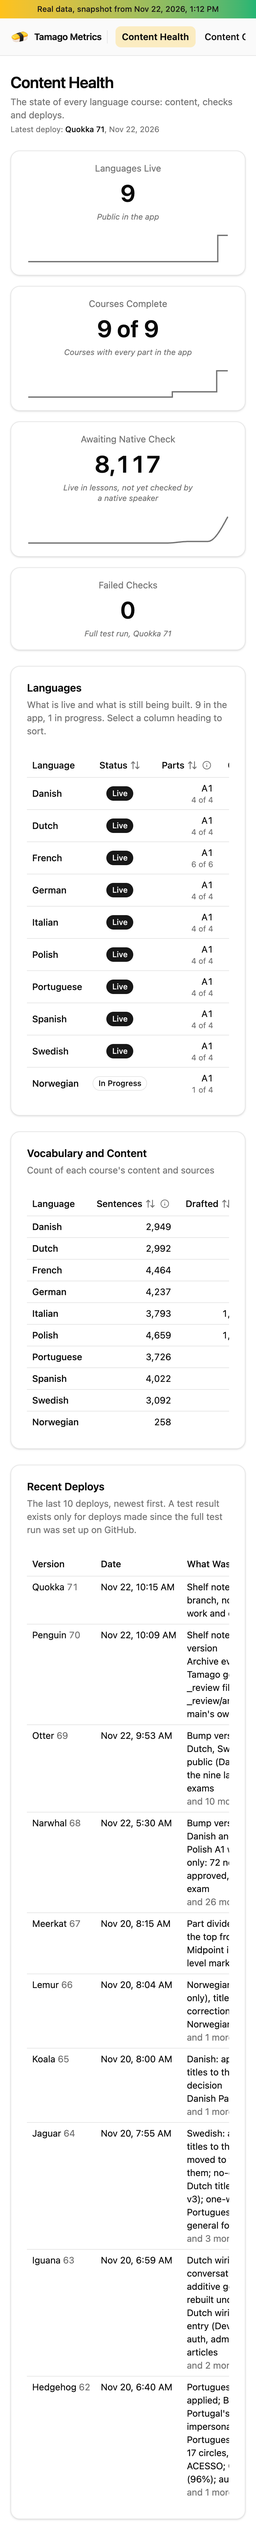
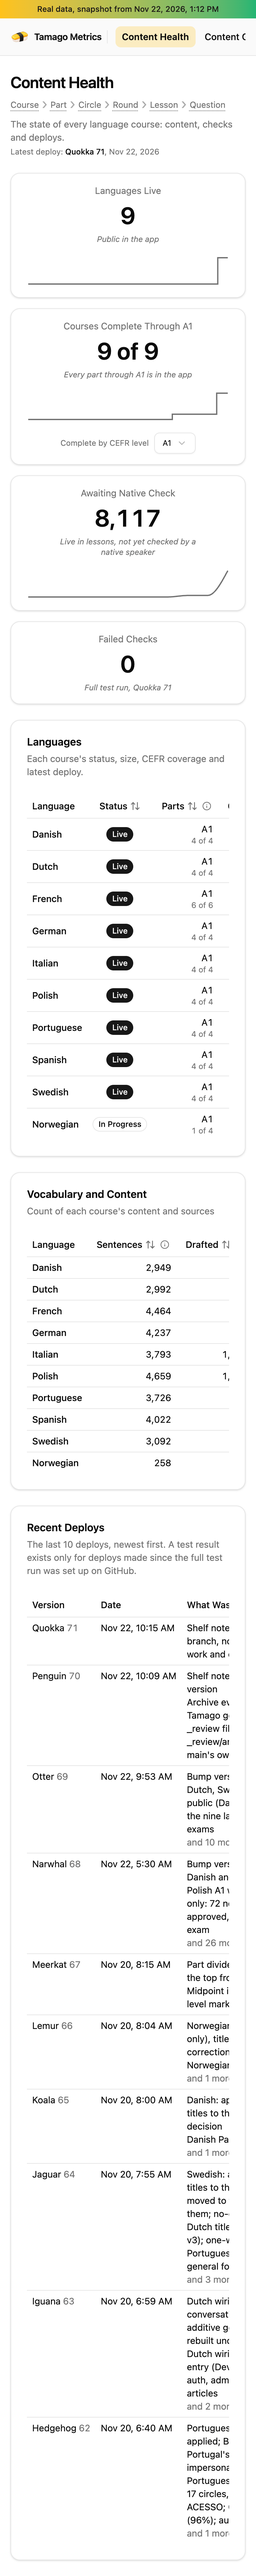
Content Health: Courses Complete Through A1 with a CEFR level menu (A1, A2), wider card text, hierarchy legend, plain Languages description; dashboard dev server on its own port 5180

diff --git a/src/charts/StatTiles.tsx b/src/charts/StatTiles.tsx
@@ -1,4 +1,7 @@
-import { Card, CardContent, CardDescription, CardHeader, CardTitle } from '@/components/ui/card'
+import { useState } from 'react'
+
+import { Card, CardContent, CardDescription, CardFooter, CardHeader, CardTitle } from '@/components/ui/card'
+import { Select, SelectContent, SelectItem, SelectTrigger, SelectValue } from '@/components/ui/select'
 import { formatCount, formatPercent, type StatTile } from '@/data'
 
 import { Sparkline } from './Sparkline'
@@ -15,6 +18,56 @@ function trendFormatter(tile: StatTile): (value: number) => string {
 }
 
 /**
+ * One stat card. A card with a `choice` gets a small menu at the bottom that switches it between its versions (for
+ * example one per CEFR level); the first version shows on load.
+ */
+function StatCard({ tile: first }: { tile: StatTile }) {
+  const [chosen, setChosen] = useState(first.choice?.options[0]?.value ?? '')
+  const tile = first.choice?.options.find((option) => option.value === chosen)?.tile ?? first
+  const trend = tile.trend !== null && tile.trend.length >= TREND_MIN_POINTS ? tile.trend : null
+
+  return (
+    <Card className="gap-4 py-4">
+      <CardHeader className="justify-items-center text-center">
+        <CardDescription>{tile.label}</CardDescription>
+        {tile.measured ? (
+          <CardTitle className="max-w-full min-w-0 text-4xl font-semibold tabular-nums wrap-anywhere">
+            {tile.value}
+          </CardTitle>
+        ) : (
+          <CardTitle className="max-w-full min-w-0 py-1.5 text-[1.2rem] font-medium text-muted-foreground wrap-anywhere">
+            {tile.value}
+          </CardTitle>
+        )}
+        <p className="mx-auto w-[72%] text-xs text-muted-foreground italic">{tile.description}</p>
+      </CardHeader>
+      {trend ? (
+        <CardContent>
+          <Sparkline label={tile.label} trend={trend} formatValue={trendFormatter(tile)} />
+        </CardContent>
+      ) : null}
+      {first.choice ? (
+        <CardFooter className="mt-auto justify-center gap-2">
+          <span className="text-xs text-muted-foreground">{first.choice.label}</span>
+          <Select value={chosen} onValueChange={setChosen}>
+            <SelectTrigger size="sm" aria-label={first.choice.label} className="h-7 text-xs">
+              <SelectValue />
+            </SelectTrigger>
+            <SelectContent>
+              {first.choice.options.map((option) => (
+                <SelectItem key={option.value} value={option.value}>
+                  {option.value}
+                </SelectItem>
+              ))}
+            </SelectContent>
+          </Select>
+        </CardFooter>
+      ) : null}
+    </Card>
+  )
+}
+
+/**
  * The row of stat cards on every page: one column on a phone, two from `sm`, four from `xl`.
  * Values arrive already formatted, so they are shown as they are.
  *
@@ -25,33 +78,9 @@ function trendFormatter(tile: StatTile): (value: number) => string {
 export function StatTiles({ tiles }: { tiles: StatTile[] }) {
   return (
     <div className="grid grid-cols-1 gap-4 sm:grid-cols-2 xl:grid-cols-4">
-      {tiles.map((tile) => {
-        const trend =
-          tile.trend !== null && tile.trend.length >= TREND_MIN_POINTS ? tile.trend : null
-
-        return (
-          <Card key={tile.id} className="gap-4 py-4">
-            <CardHeader className="justify-items-center text-center">
-              <CardDescription>{tile.label}</CardDescription>
-              {tile.measured ? (
-                <CardTitle className="max-w-full min-w-0 text-4xl font-semibold tabular-nums wrap-anywhere">
-                  {tile.value}
-                </CardTitle>
-              ) : (
-                <CardTitle className="max-w-full min-w-0 py-1.5 text-[1.2rem] font-medium text-muted-foreground wrap-anywhere">
-                  {tile.value}
-                </CardTitle>
-              )}
-              <p className="mx-auto w-[65%] text-xs text-muted-foreground italic">{tile.description}</p>
-            </CardHeader>
-            {trend ? (
-              <CardContent>
-                <Sparkline label={tile.label} trend={trend} formatValue={trendFormatter(tile)} />
-              </CardContent>
-            ) : null}
-          </Card>
-        )
-      })}
+      {tiles.map((tile) => (
+        <StatCard key={tile.id} tile={tile} />
+      ))}
     </div>
   )
 }

diff --git a/src/data/real-content.ts b/src/data/real-content.ts
@@ -125,22 +125,46 @@ function sumOverLive(read: (language: RealLanguage) => number | null): number | 
  * Live courses where every part is live: the same test as the Status column (languageStatusKey).
  * null when there is no live course.
  */
-const coursesComplete = liveLanguages.length === 0 ? null : liveLanguages.filter((language) => languageStatusKey(language) === 'complete').length
 const draftsWaitingTotal = sumOverLive((language) => language.draftsWaiting)
 const failedChecks = snapshot.health.fullSuite?.failed ?? null
+
+// ── Courses complete, by CEFR level ──────────────────────────────────────────
+
+/** The CEFR levels in order, lowest first, to compare a course's level with the one chosen. */
+const CEFR_ORDER = ['A1', 'A2', 'B1', 'B2', 'C1', 'C2']
+const cefrRank = (level: string) => CEFR_ORDER.indexOf(level)
+const levelText = labelsJson.coursesCompleteByLevel
+for (const level of levelText.levels) check(cefrRank(level) >= 0, `src/data/labels.json: "${level}" is not a CEFR level`)
+
+/**
+ * Live courses complete through a level: every part live, and the course teaches up to that level or beyond. Parts
+ * carry no level of their own in Tamago, so a course's level comes from its units (`level`). null when no course is
+ * live.
+ */
+function coursesCompleteThrough(level: string): number | null {
+  if (liveLanguages.length === 0) return null
+  return liveLanguages.filter((l) => languageStatusKey(l) === 'complete' && l.level !== null && cefrRank(l.level) >= cefrRank(level)).length
+}
+/** "9 of 9", or null when no course is live. */
+const completeText = (complete: number | null) =>
+  complete === null ? null : fill(labelsJson.coursesComplete, { complete: formatCount(complete), live: formatCount(liveLanguages.length) })
+/** The card's text in labels.json, before its {level} is filled. */
+const completeTileText = labelsJson.statTiles.content.find((t) => t.id === 'courses-complete')!
+const anyCourseReaches = (level: string) => liveLanguages.some((l) => l.level !== null && cefrRank(l.level) >= cefrRank(level))
 
 /**
  * The Content health page's four stat cards, in page order: Languages live, Courses complete,
  * Awaiting native check, Failed checks.
  */
-export const contentStatTiles: StatTile[] = buildRealTiles('content', {
+const baseContentTiles: StatTile[] = buildRealTiles('content', {
   'languages-live': {
     value: formatCount(liveLanguages.length),
     vars: {},
     trend: trendOf('languagesLive'),
   },
   'courses-complete': {
-    value: coursesComplete === null ? null : fill(labelsJson.coursesComplete, { complete: formatCount(coursesComplete), live: formatCount(liveLanguages.length) }),
+    value: completeText(coursesCompleteThrough(levelText.levels[0])),
+    vars: { level: levelText.levels[0] },
     trend: trendOf('coursesComplete'),
   },
   'drafts-waiting': {
@@ -152,6 +176,30 @@ export const contentStatTiles: StatTile[] = buildRealTiles('content', {
     vars: { run: fullTestRunLabel() },
     trend: trendOf('testsFailed'),
   },
+})
+
+/**
+ * The Courses Complete card for one level. The first level is the card built above (it has the history, so the trend);
+ * the others have no history yet.
+ */
+function coursesCompleteTile(base: StatTile, level: string, index: number): StatTile {
+  const label = fill(base.label, { level })
+  if (index === 0) return { ...base, label }
+  const value = completeText(coursesCompleteThrough(level))
+  if (value === null) return { ...base, label }
+  return {
+    ...base,
+    label,
+    value,
+    description: fill(anyCourseReaches(level) ? completeTileText.description : levelText.noneAtLevel, { level }),
+    trend: null,
+  }
+}
+
+export const contentStatTiles: StatTile[] = baseContentTiles.map((tile) => {
+  if (tile.id !== 'courses-complete') return tile
+  const options = levelText.levels.map((level, i) => ({ value: level, tile: coursesCompleteTile(tile, level, i) }))
+  return { ...options[0].tile, choice: { label: levelText.menuLabel, options } }
 })
 
 // ── Column help ──────────────────────────────────────────────────────────────

diff --git a/src/data/types.ts b/src/data/types.ts
@@ -183,6 +183,18 @@ export interface StatTile {
    * with no matching history field, and for mock cards. Show the number alone when it is null.
    */
   trend: TrendPoint[] | null
+  /**
+   * Other versions of this card that a menu under it switches between, e.g. one per CEFR level. The first option is
+   * the card shown on load and matches the fields above. Most cards have none.
+   */
+  choice?: StatTileChoice
+}
+
+/** The menu under a card: its label and one finished card per option. */
+export interface StatTileChoice {
+  /** The menu's label, e.g. "Complete by CEFR level". */
+  label: string
+  options: { value: string; tile: StatTile }[]
 }
 
 /** One line or bar series of a chart: `id` is the key into each chart row, `name` is the legend text. */

diff --git a/src/tables/LanguagesTable.tsx b/src/tables/LanguagesTable.tsx
@@ -14,8 +14,6 @@ import {
   languageColumnHelp,
   languageStatusKey,
   languagesWithContent,
-  liveLanguages,
-  startedLanguages,
   realLanguageStatusLabels,
   type LanguageColumnHelpKey,
   type RealLanguage,
@@ -135,8 +133,7 @@ export function LanguagesTable() {
       <CardHeader>
         <CardTitle>Languages</CardTitle>
         <CardDescription>
-          What is live and what is still being built. {formatCount(liveLanguages.length)} in the app,{' '}
-          {formatCount(startedLanguages.length)} in progress. Select a column heading to sort.
+          Each course's status, size, CEFR coverage and latest deploy.
         </CardDescription>
       </CardHeader>
       <CardContent>

diff --git a/src/pages/ContentHealthPage.tsx b/src/pages/ContentHealthPage.tsx
@@ -1,6 +1,7 @@
 import type { ReactNode } from 'react'
 
 import { formatDate, recentDeploys } from '@/data'
+import { HierarchyLegend } from '@/layout/HierarchyLegend'
 import { PageFrame, PageSection } from '@/layout/PageFrame'
 
 interface ContentHealthPageProps {
@@ -23,6 +24,7 @@ export function ContentHealthPage({ stats, languages, sentences, deploys }: Cont
     <PageFrame
       title="Content Health"
       description="The state of every language course: content, checks and deploys."
+      aside={<HierarchyLegend />}
       note={
         latest ? (
           <>

diff --git a/vite.config.ts b/vite.config.ts
@@ -7,6 +7,8 @@ import { defineConfig } from 'vite'
 // The published site lives at dgbenner.github.io/tamago-dashboard/. The dev server stays at the root.
 export default defineConfig(({ command }) => ({
   base: command === 'build' ? '/tamago-dashboard/' : '/',
+  // Its own port, so it never lands on Tamago's dev server (5173) or the other way round.
+  server: { port: 5180, strictPort: true },
   plugins: [react(), tailwindcss()],
   resolve: {
     alias: {
